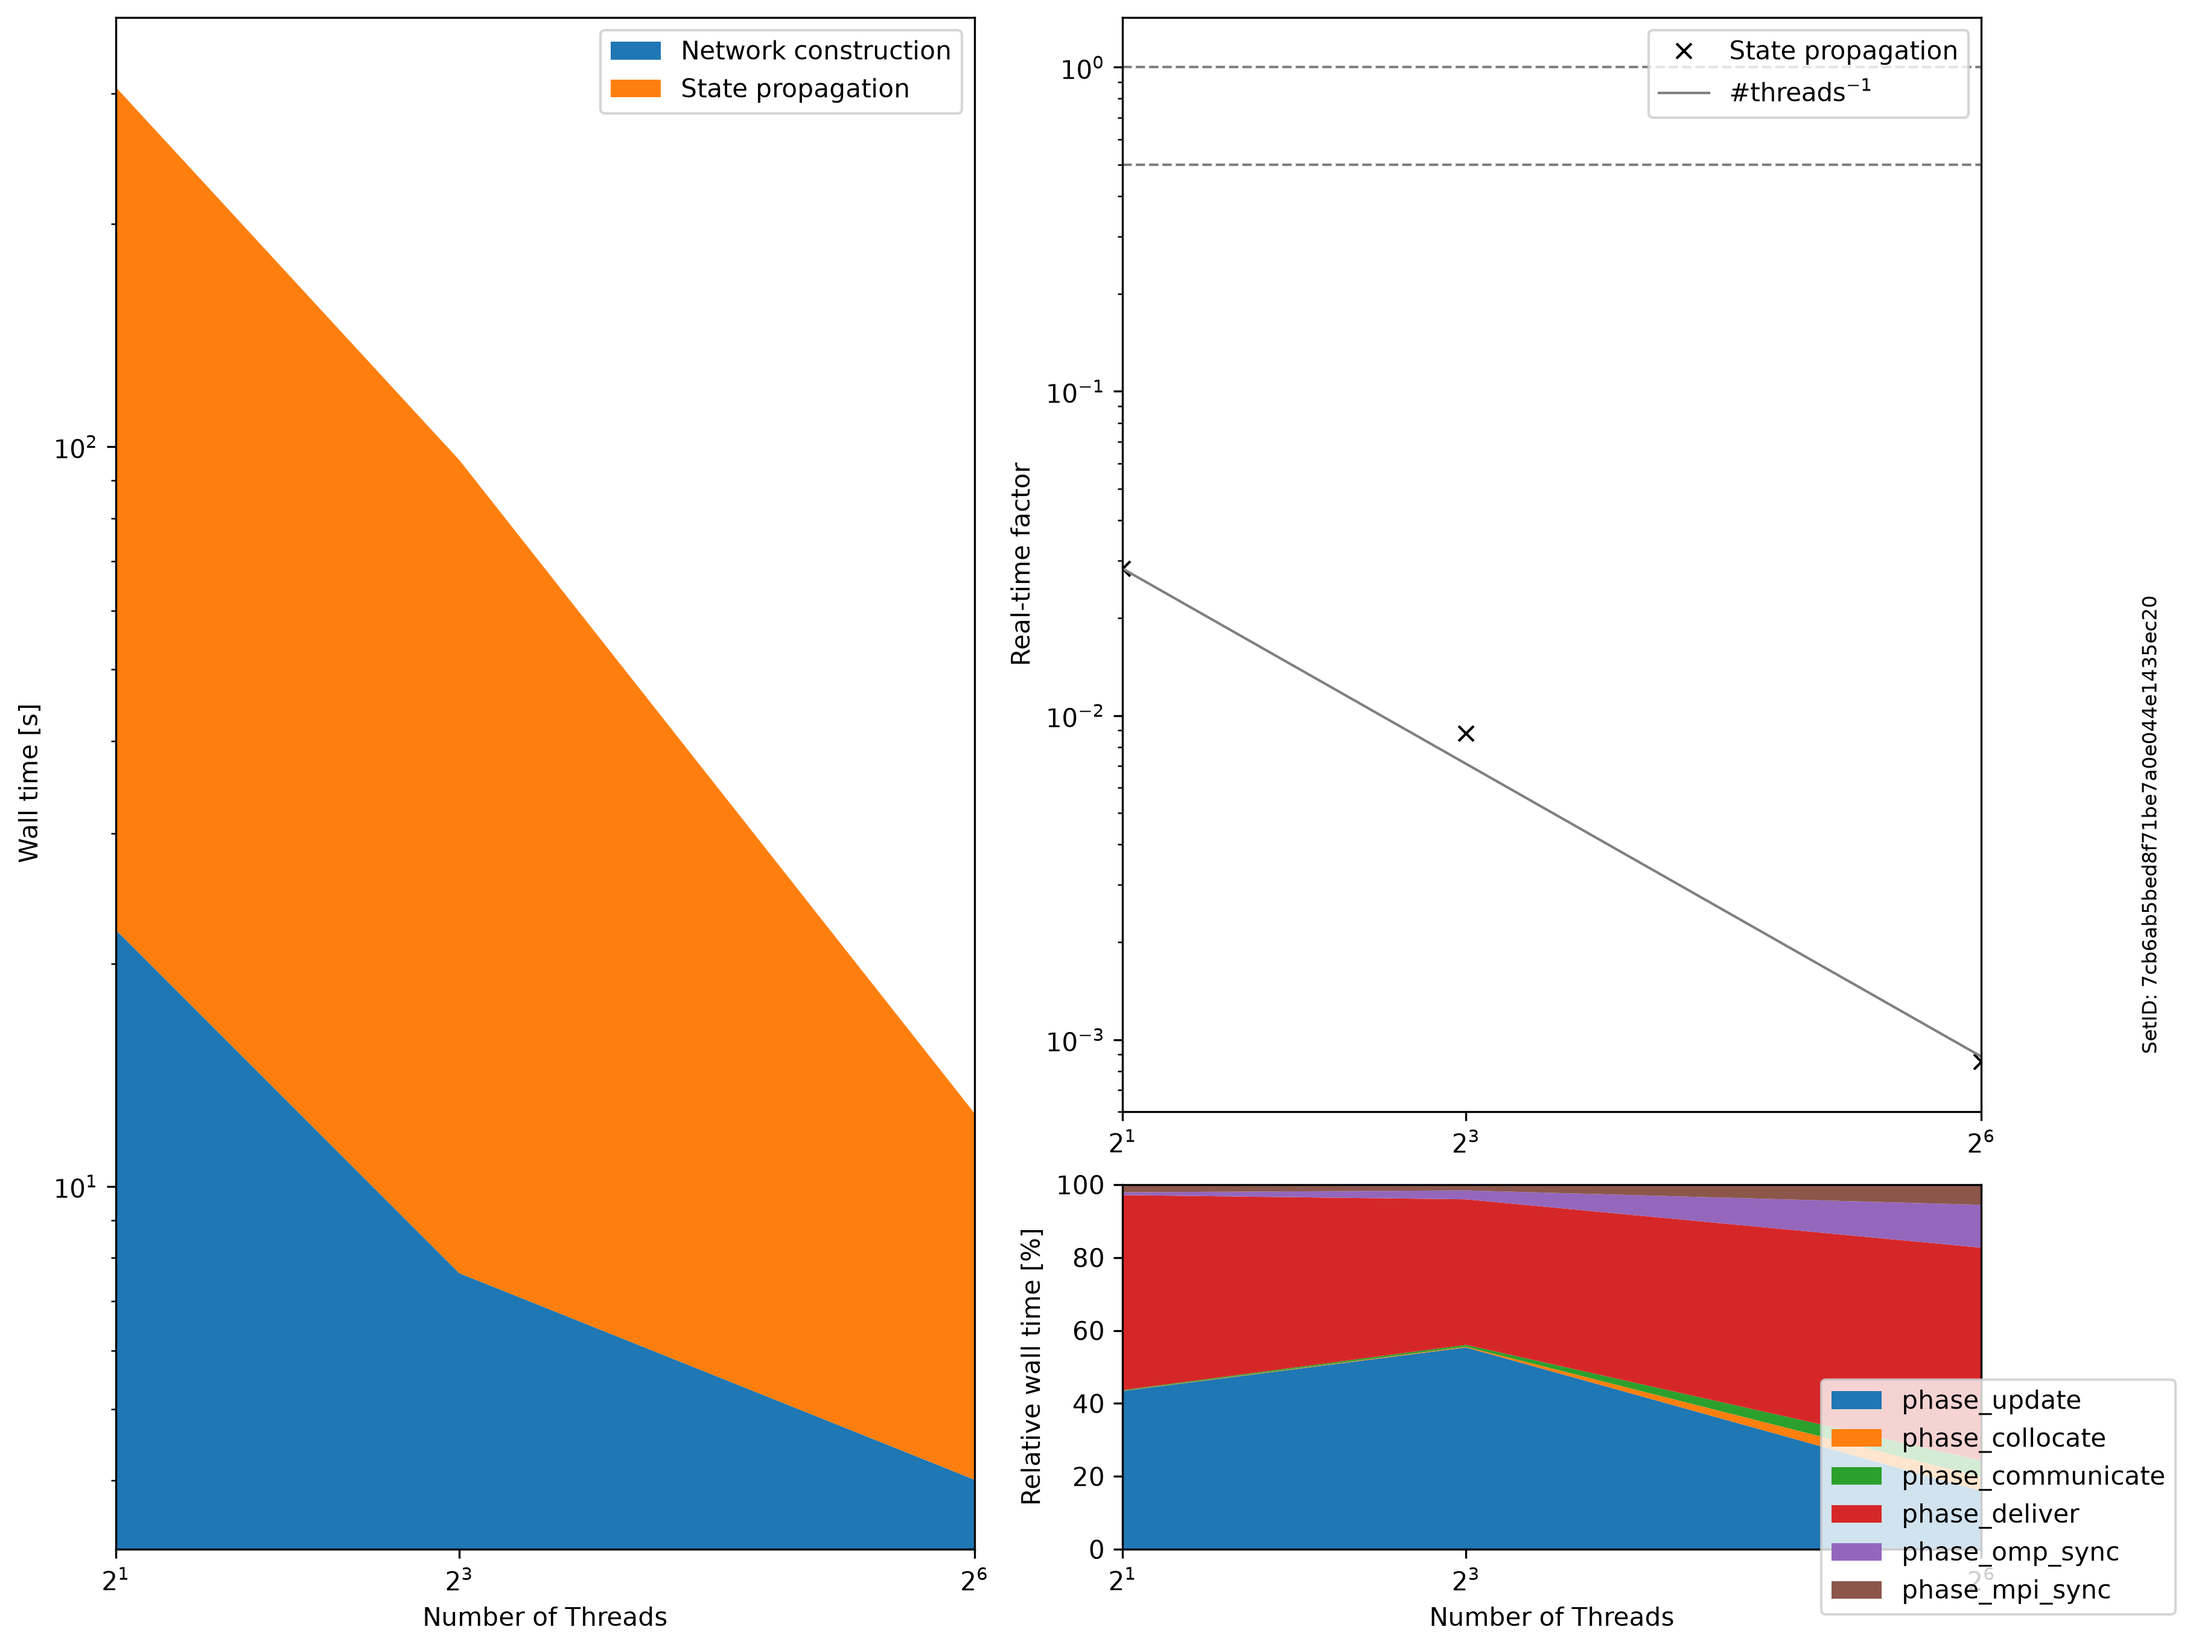
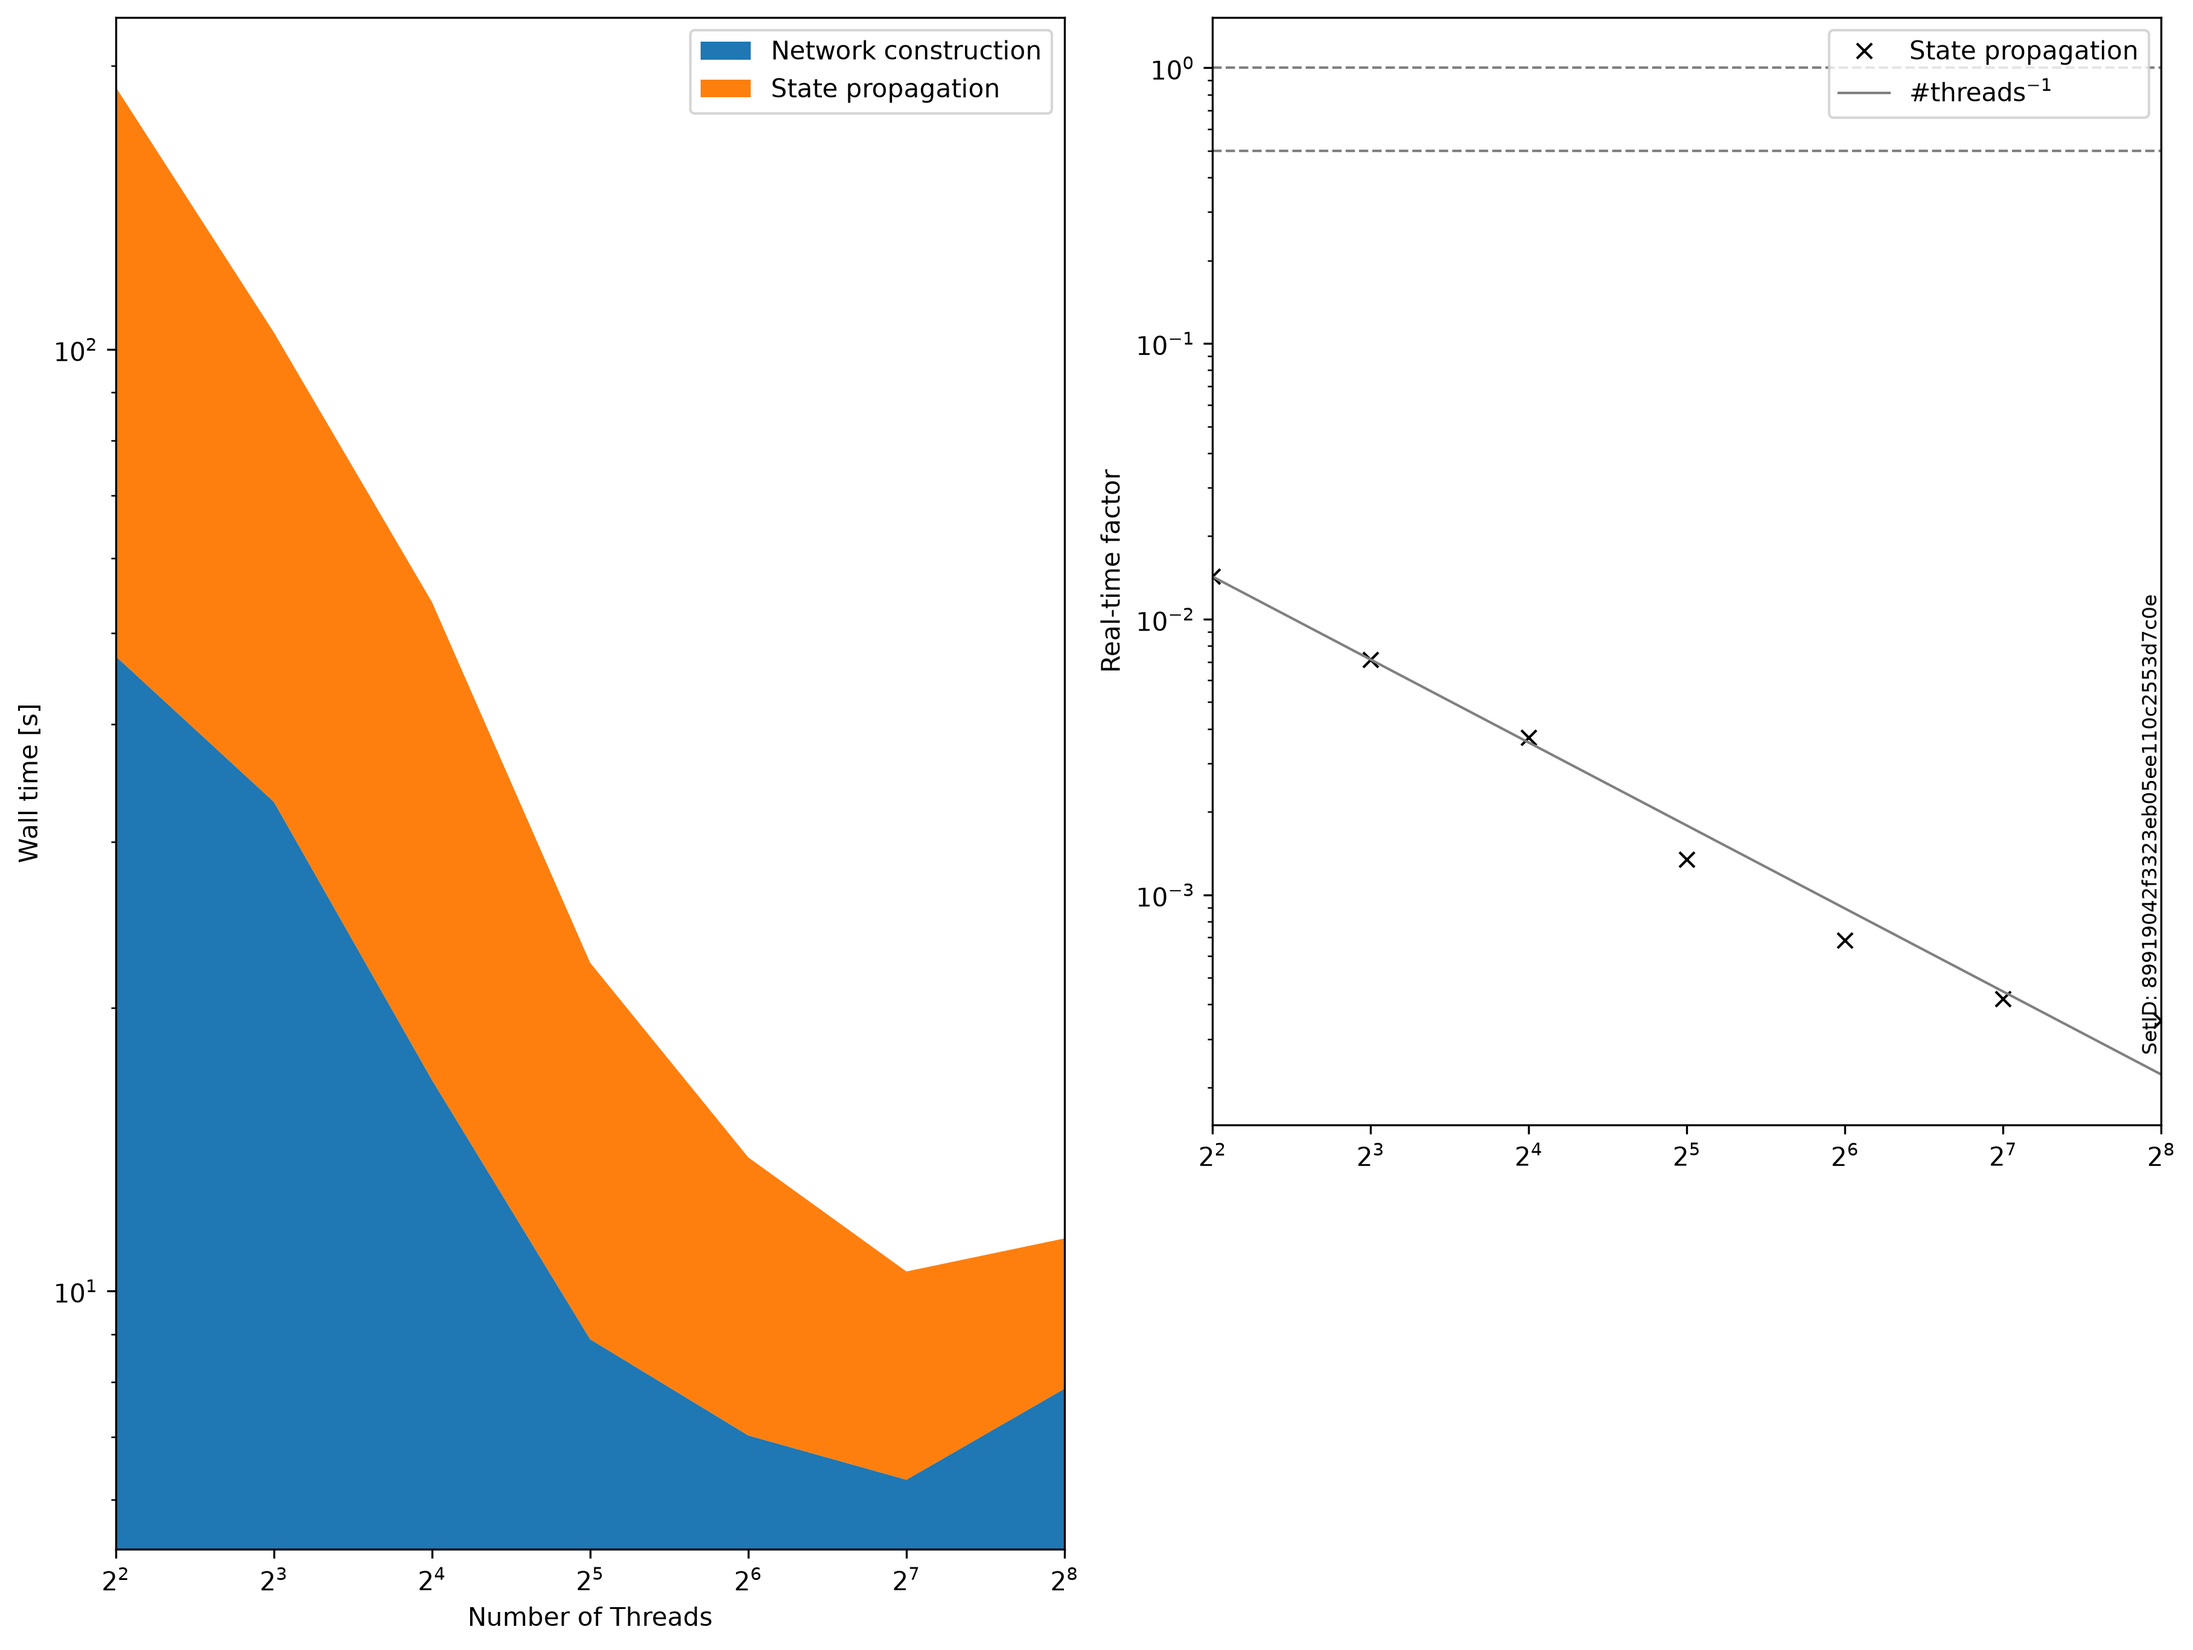
fixed bennchplot remove and others

diff --git a/src/bennch/plot/view/plot_classes.py b/src/bennch/plot/view/plot_classes.py
@@ -22,6 +22,21 @@ class ThreadScalingPlot:
         "time_omp_synchronization_simulation",
         "time_mpi_synchronization",
     ]
+    # detailed timers.
+    detailed_timer_variables = [
+        "time_update",
+        "time_collocate_spike_data",
+        "time_communicate_spike_data",
+        "time_deliver_spike_data",
+        "time_omp_synchronization_simulation",
+        "time_mpi_synchronization",
+    ]
+
+    def has_detailed_timers(self, data):
+        """Return True if every thread count has all detailed timer values."""
+        return all(
+            values.get(variable) is not None for values in data.values() for variable in self.detailed_timer_variables
+        )
 
     def aggregate_by_threads(self, data):
         """Aggregate by number of threads and take averages."""
@@ -35,54 +50,39 @@ class ThreadScalingPlot:
         for threads, runs in grouped.items():
             averaged[threads] = {}
             for variable in self.required_variables:
-                values = [run[variable] for run in runs if run[variable] is not None]  # type: ignore[list-item]
+                values = [run[variable] for run in runs if run.get(variable) is not None]  # type: ignore[list-item]
                 if values:
                     averaged[threads][variable] = sum(values) / len(values)  # type: ignore
                 else:
                     averaged[threads][variable] = None
         return averaged
 
-    def compute_derived_quantities(self, data):
-        """Do the necessary computations to plot."""
+    def compute_derived_quantities(self, data, detailed_timers):
+        """Do the necessary computations to plot.
+
+        The phase quantities are only computed if detailed_timers is True.
+        """
         for values in data.values():
             if values["py_time_create"] is not None and values["py_time_connect"] is not None:
                 values["construction_time"] = values["py_time_create"] + values["py_time_connect"]
             else:
                 values["construction_time"] = None
+
+            if not detailed_timers:
+                continue
+
             values["time_communicate_spike_data"] = (
                 values["time_communicate_spike_data"] - values["time_mpi_synchronization"]
             )
 
-            phase_times = [
-                values["time_update"],
-                values["time_collocate_spike_data"],
-                values["time_communicate_spike_data"],
-                values["time_deliver_spike_data"],
-                values["time_omp_synchronization_simulation"],
-                values["time_mpi_synchronization"],
-            ]
-            if all(time is not None for time in phase_times):
-                values["phase_total"] = sum(phase_times)
+            values["phase_total"] = sum(values[variable] for variable in self.detailed_timer_variables)
 
-                values["phase_update"] = values["time_update"] / values["phase_total"]
-
-                values["phase_collocate"] = values["time_collocate_spike_data"] / values["phase_total"]
-
-                values["phase_communicate"] = values["time_communicate_spike_data"] / values["phase_total"]
-
-                values["phase_deliver"] = values["time_deliver_spike_data"] / values["phase_total"]
-
-                values["phase_omp_sync"] = values["time_omp_synchronization_simulation"] / values["phase_total"]
-
-                values["phase_mpi_sync"] = values["time_mpi_synchronization"] / values["phase_total"]
-            else:
-                values["phase_total"] = None
-                values["phase_update"] = None
-                values["phase_collocate"] = None
-                values["phase_communicate"] = None
-                values["phase_deliver"] = None
-                values["phase_omp_sync"] = None
-                values["phase_mpi_sync"] = None
+            values["phase_update"] = values["time_update"] / values["phase_total"]
+            values["phase_collocate"] = values["time_collocate_spike_data"] / values["phase_total"]
+            values["phase_communicate"] = values["time_communicate_spike_data"] / values["phase_total"]
+            values["phase_deliver"] = values["time_deliver_spike_data"] / values["phase_total"]
+            values["phase_omp_sync"] = values["time_omp_synchronization_simulation"] / values["phase_total"]
+            values["phase_mpi_sync"] = values["time_mpi_synchronization"] / values["phase_total"]
 
         return data
 
@@ -197,9 +197,14 @@ class ThreadScalingPlot:
             ax.legend(loc="upper center", bbox_to_anchor=(1.02, 0.5))
 
     def plot(self, data, set_id):
-        """Execute the plot using other functions."""
+        """Execute the plot using other functions.
+
+        With detailed timers: runtime, real-time factor and phase fractions.
+        Without detailed timers: runtime and real-time factor only.
+        """
         data = self.aggregate_by_threads(data)
-        data = self.compute_derived_quantities(data)
+        detailed_timers = self.has_detailed_timers(data)
+        data = self.compute_derived_quantities(data, detailed_timers)
 
         threads = sorted(data)
 
@@ -215,20 +220,27 @@ class ThreadScalingPlot:
 
         ax1 = fig.add_subplot(spec[:, 0])
         ax2 = fig.add_subplot(spec[0, 1])
-        ax3 = fig.add_subplot(spec[1, 1])
+        axes = [ax1, ax2]
 
         self.plot_runtime(ax1, data)
         self.plot_runtime_breakdown(ax2, data)
-        self.plot_fractions(ax3, data)
 
         ax1.set_ylabel("Wall time [s]")
         ax2.set_ylabel("Real-time factor")
-        ax3.set_ylabel("Relative wall time [%]")
-
         ax1.set_xlabel("Number of Threads")
-        ax3.set_xlabel("Number of Threads")
 
-        for ax in (ax1, ax2, ax3):
+        if detailed_timers:
+            # The phase fractions panel only exists with detailed timers;
+            # otherwise the lower right of the figure stays empty.
+            ax3 = fig.add_subplot(spec[1, 1])
+            axes.append(ax3)
+
+            self.plot_fractions(ax3, data)
+
+            ax3.set_ylabel("Relative wall time [%]")
+            ax3.set_xlabel("Number of Threads")
+
+        for ax in axes:
             ax.set_xscale("log", base=2)
             ax.set_xticks(threads)
             ax.margins(x=0)

diff --git a/src/bennch/plot/io/tarball/__init__.py b/src/bennch/plot/io/tarball/__init__.py
@@ -3,7 +3,7 @@
 import logging
 from shutil import which
 from subprocess import PIPE, CalledProcessError, Popen, check_output
-from typing import Any, Callable
+from typing import Any, Callable, Collection
 from uuid import UUID
 
 from bennch.plot.io.config.models import Config, SourceConfig, VarConfig
@@ -12,8 +12,8 @@ from bennch.plot.models import UuidSet
 log = logging.getLogger(__name__)
 
 
-def get_variable_value(uuid: UUID, var: VarConfig, source: SourceConfig) -> Any:
-    "Extract a variable from the given simulation."
+def get_variable_value(uuid: UUID, var: VarConfig, source: SourceConfig, optional: bool = False) -> Any:
+    """Extract a variable from the given simulation."""
     log.debug("Getting variable from %s with %s from %s", uuid, var.parser, var.path)
     tar = f"tar --wildcards -zxOf {uuid}.tgz {var.path}"
     cmd = [
@@ -23,6 +23,9 @@ def get_variable_value(uuid: UUID, var: VarConfig, source: SourceConfig) -> Any:
     ]
     log.debug("calling %s", cmd)
     value = check_output(cmd, encoding="utf8")
+    if optional and not value.strip():
+        log.debug("Optional variable at %s is empty for %s", var.path, uuid)
+        return None
     casts: dict[str, Callable[[str], Any]] = {
         "str": lambda x: x,
         "int": int,
@@ -31,18 +34,28 @@ def get_variable_value(uuid: UUID, var: VarConfig, source: SourceConfig) -> Any:
         "list[int]": lambda s: [int(x) for x in s.split()],
         "list[float]": lambda s: [int(x) for x in s.split()],
     }
-    return casts[var.cast](value)
+    try:
+        return casts[var.cast](value)
+    except ValueError:
+        print(f"FAILED: UUID={uuid}, value={value!r}, cast={var.cast}")
+        raise
 
 
-def get_variables(uuids: UuidSet, var_names: list[str], config: Config):
-    "Get multiple variables from multiple uuids."
+def get_variables(uuids: UuidSet, var_names: list[str], config: Config, optional: Collection[str] = ()):
+    """Get multiple variables from multiple uuids."""
     values = {}  # type: ignore[var-annotated]
 
     for uuid in uuids:
         values[uuid] = {}
 
         for var_name in var_names:
-            values[uuid][var_name] = get_variable_value(uuid, config.vars[var_name], config.source)
+            try:
+                values[uuid][var_name] = get_variable_value(
+                    uuid, config.vars[var_name], config.source, optional=var_name in optional
+                )
+            except ValueError:
+                print(f"FAILED: UUID={uuid}, variable={var_name}")
+                raise
 
     return values
 

diff --git a/src/bennch/plot/cli.py b/src/bennch/plot/cli.py
@@ -12,7 +12,7 @@ from uuid import UUID
 import rich_click as click
 from rich.progress import track
 
-from bennch.plot.io.config import Config, ConfigContext, load_config, save_config
+from bennch.plot.io.config import Config, ConfigContext, load_config
 from bennch.plot.io.tarball import get_variable_value, get_variables, list_files
 from bennch.plot.io.uuidmap import export_uuid_set, import_uuid_set
 from bennch.plot.io.uuids import import_uuids
@@ -155,9 +155,9 @@ def cli_set_add(config: Config, uuids: tuple[UUID, ...]):
 
 @cli_set.command("rm")
 @click.argument("uuid", type=UUID)
-def cli_set_remove(uuid: UUID):
+@click.pass_obj
+def cli_set_remove(config: Config, uuid: UUID):
     "Remove the given UUID from the current set."
-    config = load_config()
     sets = SetCache()
 
     uset = sets.load(config.current_set.setid)
@@ -165,7 +165,6 @@ def cli_set_remove(uuid: UUID):
 
     sets.save(uset)
     config.current_set.setid = uset.key
-    save_config(config)
     return config.current_set
 
 
@@ -335,6 +334,8 @@ def cli_thread_scaling_plot() -> None:
     tplot = ThreadScalingPlot()
     print(tplot.required_variables)
     print(list(uset))
-    values = get_variables(UuidSet(frozenset(uset)), tplot.required_variables, config)
+    values = get_variables(
+        UuidSet(frozenset(uset)), tplot.required_variables, config, optional=tplot.detailed_timer_variables
+    )
     print(values)
     tplot.plot(values, config.current_set.setid)
